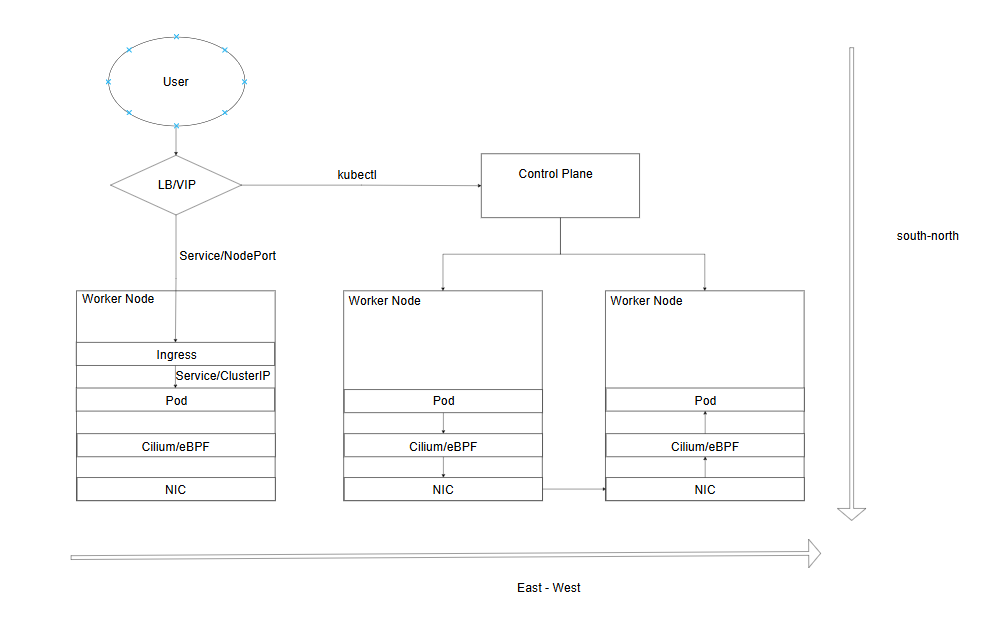
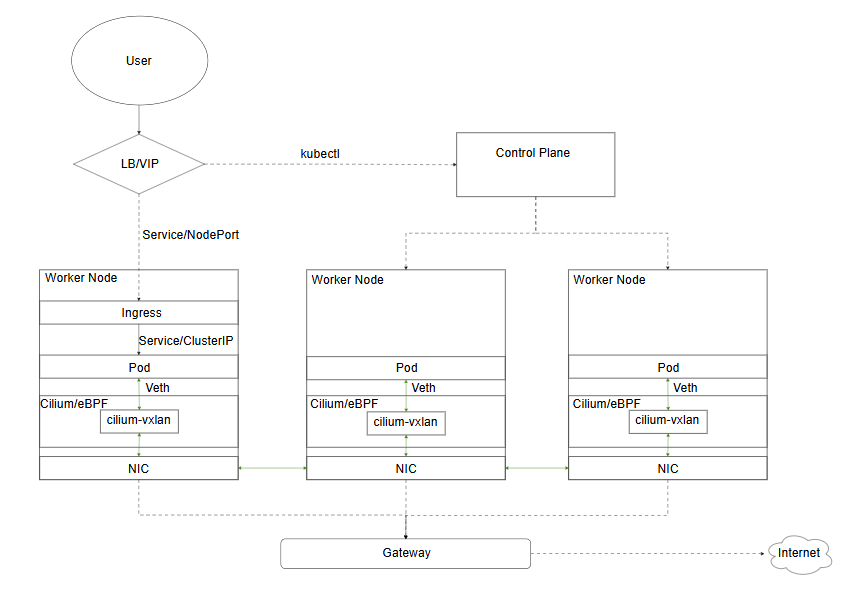
abc

diff --git a/docs/k8s_traffic.md b/docs/k8s_traffic.md
@@ -15,16 +15,22 @@ Trong kiến trúc Kubernetes hiện đại, lưu lượng mạng được chia 
 Lưu lượng South–North đại diện cho các kết nối từ người dùng (User) bên ngoài đi vào cụm hoặc các yêu cầu quản trị hệ thống. Trong sơ đồ, luồng này di chuyển theo chiều dọc.
 
 ### 2.2. Luồng di chuyển (Data Flow) theo sơ đồ:
+**A. Incoming (Chiều vào):**
 1.  **Người dùng (User)** kết nối tới điểm truy cập duy nhất.
-2.  **LB/VIP (Load Balancer/Virtual IP)**: Tiếp nhận request. Tại đây có hai nhánh:
-    -   **Quản trị**: `kubectl` kết nối trực tiếp tới **Control Plane**.
+2.  **LB/VIP (Load Balancer/Virtual IP)**: Tiếp nhận request.
+    -   **Quản trị**: `kubectl` kết nối tới **Control Plane** (để quản lý cụm và các node).
     -   **Ứng dụng**: Traffic đi tới **Service/NodePort** của Worker Node.
-3.  **Bên trong Worker Node**:
-    -   **Ingress Controller**: Tiếp nhận traffic từ NodePort để định tuyến.
-    -   **Service/ClusterIP**: Phân phối request tới các Pod mục tiêu.
-    -   **Pod**: Nơi xử lý logic ứng dụng.
-    -   **Cilium/eBPF**: Lớp mạng hiệu năng cao xử lý traffic ngay tại kernel.
-    -   **NIC (Network Interface Card)**: Card mạng vật lý/ảo chuyển tiếp dữ liệu.
+3.  **Xử lý tại Worker Node**:
+    -   **Ingress**: Định tuyến dựa trên host/path.
+    -   **Service/ClusterIP**: Cân bằng tải nội bộ.
+    -   **Pod**: Xử lý logic nghiệp vụ.
+    -   **Cilium/eBPF**: Lớp mạng kernel-level xử lý gói tin với hiệu suất cực cao và áp dụng chính sách bảo mật (Network Policy).
+    -   **NIC (Network Interface Card)**: Chuyển gói tin ra/vào lớp vật lý.
+
+**B. Outgoing/Egress (Chiều ra):**
+1.  **Pod** → **Cilium/eBPF** → **NIC**.
+2.  **Gateway**: Tiếp nhận traffic từ các Worker Node.
+3.  **Internet**: Điểm đến cuối cùng của các yêu cầu ra bên ngoài.
 
 ### 2.3. Trọng tâm quản lý
 -   **Security**: WAF, SSL Termination tại Ingress.
@@ -39,14 +45,17 @@ Lưu lượng East–West là giao tiếp giữa các Microservices bên trong c
 
 ### 3.2. Luồng di chuyển (Data Flow):
 Khi một Pod ở Worker Node A cần giao tiếp với Pod ở Worker Node B:
-1.  **Pod (A)** → **Cilium/eBPF** (Xử lý định tuyến/chính sách bảo mật).
-2.  **NIC (Node A)** → Xuất traffic ra mạng nội bộ.
-3.  **NIC (Node B)** → Tiếp nhận traffic.
-4.  **Cilium/eBPF** (Kiểm tra chính sách/giải mã mTLS nếu có).
+1.  **Pod (A)** → **Cilium/eBPF** (V-Switch kernel xử lý).
+2.  **NIC (Node A)** đóng gói gói tin vào **Overlay - VXLAN**.
+3.  Traffic di chuyển qua hạ tầng mạng vật lý tới **NIC (Node B)**.
+4.  **NIC (Node B)** giải mã VXLAN → **Cilium/eBPF** (Kiểm tra bảo mật/mTLS).
 5.  **Pod (B)** tiếp nhận dữ liệu.
 
-### 3.3. Công nghệ chủ chốt: Cilium & eBPF
--   **eBPF**: Cho phép lập trình trực tiếp vào Linux Kernel để xử lý gói tin mà không cần qua lớp `iptables` chậm chạp.
+### 3.3. Overlay Network (VXLAN)
+Trong sơ đồ, lớp **Overlay - VXLAN** bao phủ các NIC của các Worker Node, tạo ra một mạng phẳng ảo (Virtual Flat Network) giúp các Pod có thể giao tiếp với nhau dù nằm ở các máy chủ vật lý khác nhau mà không cần cấu hình phức tạp tại lớp mạng router/switch vật lý.
+
+### 3.4. Công nghệ chủ chốt: Cilium & eBPF
+-   **eBPF**: Cho phép lập trình trực tiếp vào Linux Kernel để xử lý gói tin mà không cần qua lớp `iptables` chậm chạp. Trong hình, Cilium/eBPF đóng vai trò là "cửa ngõ" kernel ngay trước khi traffic đi vào Pod hoặc ra NIC.
 -   **Cilium**: Cung cấp khả năng quan sát (Observability), bảo mật mạng (Network Policy) và cân bằng tải hiệu năng cao cho giao tiếp nội bộ.
 
 ---

diff --git a/README.md b/README.md
@@ -1,6 +1,6 @@
-# 🚀 VNPOST Kubernetes (K8s) Learning Journey
+# 🚀 Learning Kubernetes
 
-Chào mừng đến với kho tài liệu nghiên cứu và triển khai **Kubernetes** tại **VNPost**. Đây là nơi hệ thống hóa toàn bộ kiến thức từ cơ bản đến nâng cao, tập trung vào kiến trúc thực tế, bảo mật mạng và khả năng sẵn sàng cao (High Availability).
+Chào mừng đến với kho tài liệu nghiên cứu và triển khai **Kubernetes**. Đây là nơi hệ thống hóa toàn bộ kiến thức từ cơ bản đến nâng cao, tập trung vào kiến trúc thực tế, bảo mật mạng và khả năng sẵn sàng cao (High Availability).
 
 ---
 
